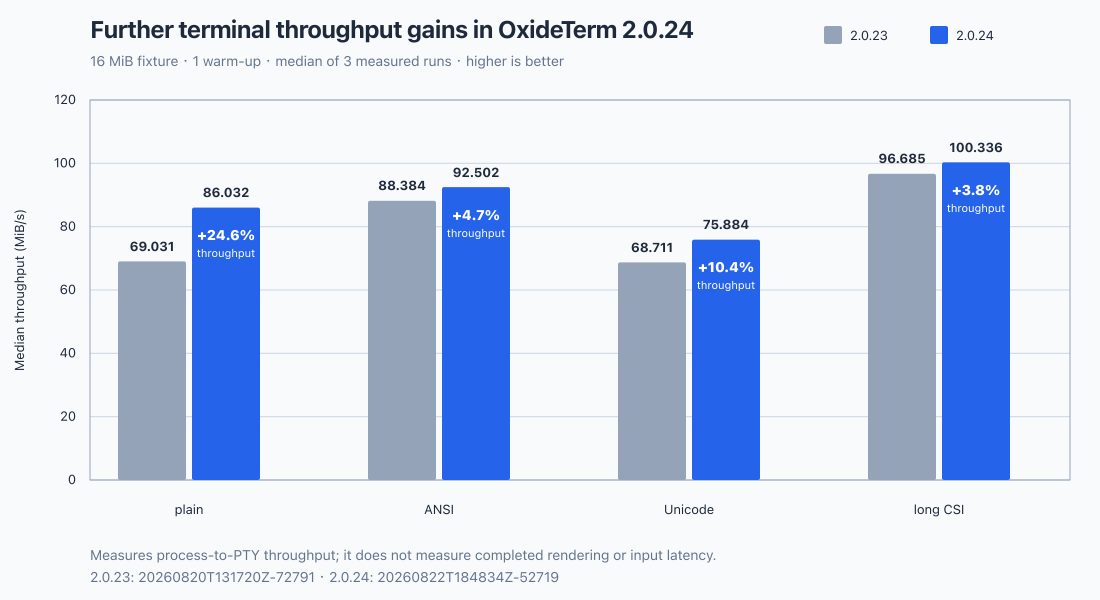
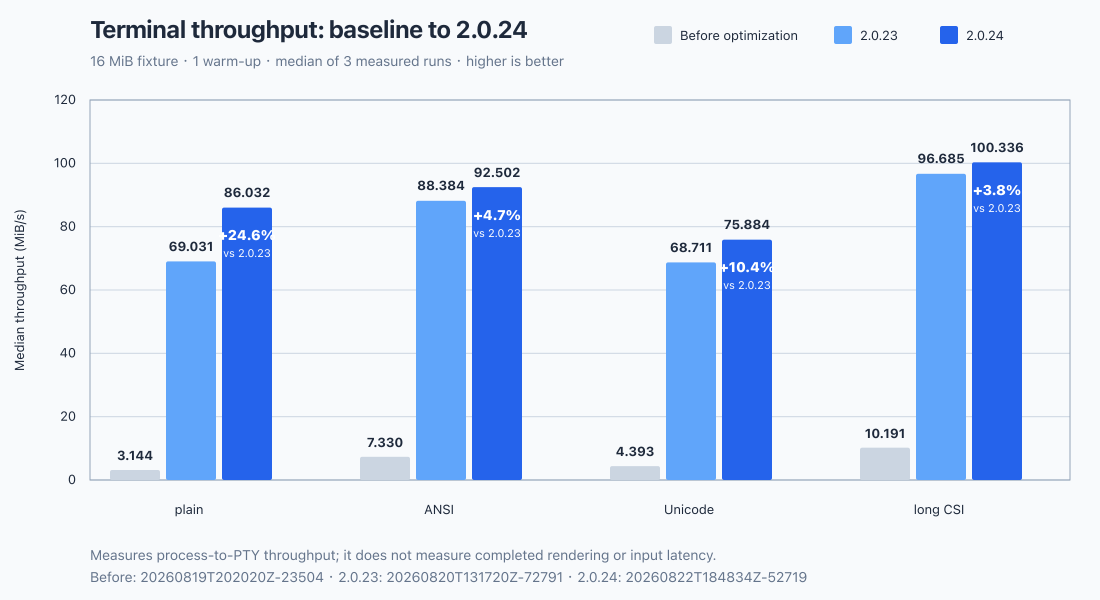
docs(release): show terminal performance baseline

diff --git a/.github/release-notes/stable-changelog.md b/.github/release-notes/stable-changelog.md
@@ -93,7 +93,7 @@ OxideTerm 2.0.24 新增原生 tmux 控制模式、参数化快捷命令、可配
 - 将本地加密 `.oxide` 导入与导出移入 Cloud Hub，使本地备份与云同步集中在同一位置，同时在未配置云服务商时仍可使用。
 - 扩展同步的快捷命令与 SSH 元数据，并继续将设备本地敏感值排除在可移植快照之外，在兼容更新中保留这些值。
 
-![OxideTerm 2.0.23 and 2.0.24 terminal throughput comparison](https://raw.githubusercontent.com/AnalyseDeCircuit/oxideterm/v2.0.24/.github/release-notes/assets/terminal-performance-2.0.24-comparison.png)
+![OxideTerm terminal throughput before optimization, in 2.0.23, and in 2.0.24](https://raw.githubusercontent.com/AnalyseDeCircuit/oxideterm/v2.0.24/.github/release-notes/assets/terminal-performance-2.0.24-comparison.png)
 
 ## 2.0.23
 
